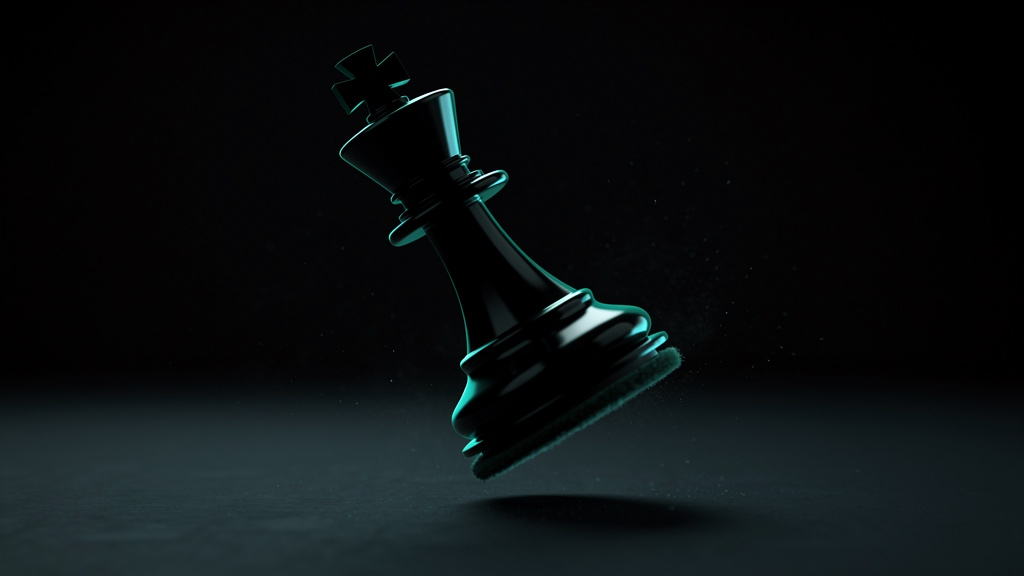
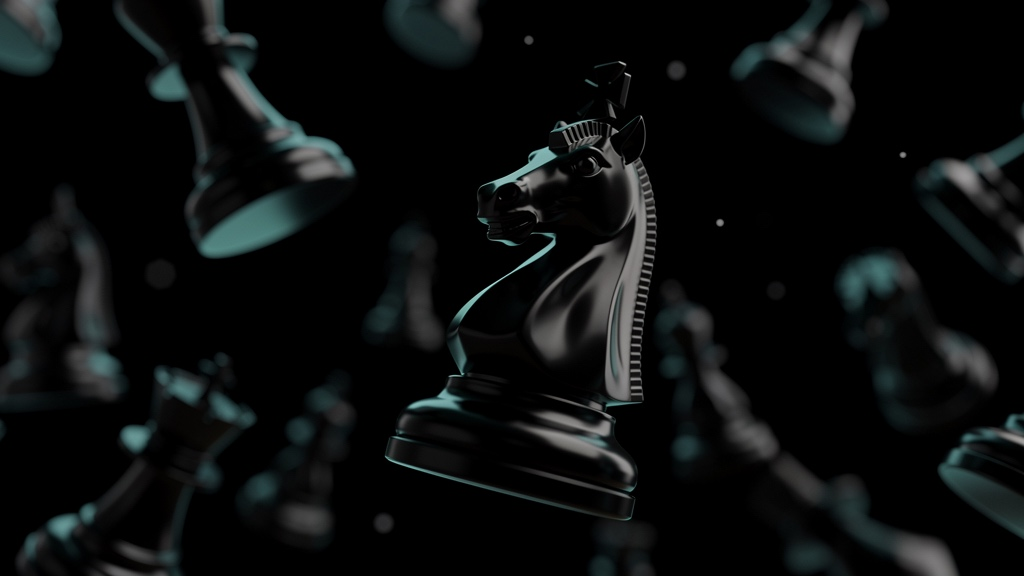
Full platform retheme: Code Black + Plasma Orange

diff --git a/src/app/profile/page.tsx b/src/app/profile/page.tsx
@@ -279,18 +279,18 @@ export default function ProfilePage() {
       <main className="mx-auto max-w-[1200px] px-4 pt-6 pb-24 sm:px-6 lg:px-8 md:pt-8 md:pb-12">
         {/* Section 1: Profile header */}
         <section
-          className="animate-fade-in overflow-hidden rounded-card border border-white/10 bg-gradient-to-br from-[#0D0F14] via-[#151821] to-[#0D0F14]"
+          className="animate-fade-in overflow-hidden rounded-card border border-white/10 bg-gradient-to-br from-[#0E0E12] via-[#1A1A22] to-[#0E0E12]"
           style={{
             backgroundImage: isPractice
-              ? "linear-gradient(135deg, rgba(139,92,246,0.05) 0%, transparent 50%, rgba(124,92,252,0.05) 100%)"
-              : "linear-gradient(135deg, rgba(0,229,199,0.04) 0%, transparent 50%, rgba(124,92,252,0.04) 100%)",
+              ? "linear-gradient(135deg, rgba(168,85,247,0.07) 0%, transparent 50%, rgba(192,132,252,0.06) 100%)"
+              : "linear-gradient(135deg, rgba(255,94,0,0.06) 0%, transparent 50%, rgba(255,122,46,0.05) 100%)",
           }}
         >
           <div className="flex flex-col gap-6 p-6 sm:flex-row sm:items-center sm:justify-between sm:p-8">
             <div className="flex flex-col gap-4 sm:flex-row sm:items-center sm:gap-6">
               <div
                 className={`h-20 w-20 shrink-0 rounded-full bg-gradient-to-br p-0.5 ring-2 ring-white/10 ${
-                  isPractice ? "from-purple-500/50 to-fuchsia-500/40" : "from-teal/50 to-purple/50"
+                  isPractice ? "from-purple-500/50 to-fuchsia-500/40" : "from-teal/60 to-[rgba(255,122,46,0.8)]"
                 }`}
               >
                 <div className="flex h-full w-full items-center justify-center rounded-full bg-charcoal">
@@ -563,8 +563,8 @@ export default function ProfilePage() {
             <svg viewBox={`0 0 ${chartW} ${chartH}`} className="w-full max-w-full" preserveAspectRatio="xMidYMid meet">
               <defs>
                 <linearGradient id="ratingGradient" x1="0%" y1="0%" x2="0%" y2="100%">
-                  <stop offset="0%" stopColor="#00E5C7" stopOpacity="0.4" />
-                  <stop offset="100%" stopColor="#00E5C7" stopOpacity="0" />
+                  <stop offset="0%" stopColor="#FF5E00" stopOpacity="0.4" />
+                  <stop offset="100%" stopColor="#FF5E00" stopOpacity="0" />
                 </linearGradient>
               </defs>
               {/* Grid */}
@@ -606,7 +606,7 @@ export default function ProfilePage() {
                     }
                     fill="url(#ratingGradient)"
                   />
-                  <polyline
+                    <polyline
                     points={ratingHistoryPoints
                       .map((p, i) => {
                         const x = pad.left + (p.x / Math.max(1, ratingHistoryPoints.length - 1)) * innerW;
@@ -615,7 +615,7 @@ export default function ProfilePage() {
                       })
                       .join(" ")}
                     fill="none"
-                    stroke="#00E5C7"
+                    stroke="#FF5E00"
                     strokeWidth="2"
                     strokeLinecap="round"
                     strokeLinejoin="round"
@@ -628,7 +628,7 @@ export default function ProfilePage() {
                   y1={pad.top + innerH / 2}
                   x2={chartW - pad.right}
                   y2={pad.top + innerH / 2}
-                  stroke="#00E5C7"
+                  stroke="#FF5E00"
                   strokeWidth="2"
                   strokeDasharray="4 4"
                 />

diff --git a/src/components/ModeToggleBar.tsx b/src/components/ModeToggleBar.tsx
@@ -11,12 +11,12 @@ export default function ModeToggleBarContent({ className = "" }: ModeToggleBarCo
 
   return (
     <div
-      className={`mode-toggle-bar flex flex-col items-center justify-center gap-1 border-b border-white/5 bg-[#0E1018] py-2 md:h-10 md:flex-row md:gap-3 md:py-0 ${className}`}
+      className={`mode-toggle-bar flex flex-col items-center justify-center gap-1 border-b border-white/5 bg-charcoal py-2 md:h-10 md:flex-row md:gap-3 md:py-0 ${className}`}
       style={{ minHeight: 36 }}
       role="tablist"
       aria-label="Play mode"
     >
-      <div className="mode-toggle flex items-center gap-1 rounded-[20px] bg-[#151821] p-[3px]">
+      <div className="mode-toggle flex items-center gap-1 rounded-[20px] bg-card p-[3px]">
         <button
           type="button"
           role="tab"
@@ -24,8 +24,8 @@ export default function ModeToggleBarContent({ className = "" }: ModeToggleBarCo
           onClick={() => setMode("real")}
           className={`relative rounded-[18px] px-4 py-2 text-sm font-bold transition-all duration-300 md:px-5 md:py-2 ${
             mode === "real"
-              ? "active-real bg-gradient-to-r from-[#00E5C7] to-emerald-500 text-white shadow-[0_0_20px_rgba(0,229,199,0.3)]"
-              : "bg-transparent text-body-gray hover:text-white/80"
+              ? "active-real bg-gradient-to-r from-[#FF5E00] to-[#FF7A2E] text-white shadow-[0_0_20px_rgba(255,94,0,0.3)]"
+              : "bg-transparent text-body-gray hover:text-primary-text/80"
           }`}
         >
           <span className="relative z-10 inline-flex items-center gap-1.5">
@@ -39,8 +39,8 @@ export default function ModeToggleBarContent({ className = "" }: ModeToggleBarCo
           onClick={() => setMode("practice")}
           className={`relative rounded-[18px] px-4 py-2 text-sm font-bold transition-all duration-300 md:px-5 md:py-2 ${
             mode === "practice"
-              ? "active-practice bg-gradient-to-r from-[#7C5CFC] to-purple-600 text-white shadow-[0_0_20px_rgba(124,92,252,0.3)]"
-              : "bg-transparent text-body-gray hover:text-white/80"
+              ? "active-practice bg-gradient-to-r from-[#A855F7] to-[#C084FC] text-white shadow-[0_0_20px_rgba(168,85,247,0.3)]"
+              : "bg-transparent text-body-gray hover:text-primary-text/80"
           }`}
         >
           <span className="relative z-10 inline-flex items-center gap-1.5">

diff --git a/src/components/games/ReactionDuel.tsx b/src/components/games/ReactionDuel.tsx
@@ -22,10 +22,10 @@ const ROUND_START_DELAY_MIN = 2000;
 const ROUND_START_DELAY_MAX = 5000;
 
 function reactionLabel(ms: number): { text: string; color: string } {
-  if (ms < 200) return { text: "INSANE! 🔥", color: "#EAB308" };
-  if (ms < 300) return { text: "Great!", color: "#00E5C7" };
+  if (ms < 200) return { text: "INSANE! 🔥", color: "#FACC15" };
+  if (ms < 300) return { text: "Great!", color: "#FF5E00" };
   if (ms < 400) return { text: "Good", color: "#22C55E" };
-  if (ms < 500) return { text: "OK", color: "#EAB308" };
+  if (ms < 500) return { text: "OK", color: "#FACC15" };
   return { text: "Slow", color: "#9ca3af" };
 }
 
@@ -66,7 +66,7 @@ export default function ReactionDuel({
   const [roundHistory, setRoundHistory] = useState<{ p1: Reaction; p2: Reaction; winner: "player1" | "player2" | "draw" }[]>([]);
   const [targetPos, setTargetPos] = useState<{ x: number; y: number } | null>(null);
   const [targetDiameter, setTargetDiameter] = useState(TARGET_BASE);
-  const [targetColor, setTargetColor] = useState("#00E5C7");
+  const [targetColor, setTargetColor] = useState("#FF5E00");
   const [p1Reaction, setP1Reaction] = useState<Reaction | null>(null);
   const [p2Reaction, setP2Reaction] = useState<Reaction | null>(null);
   const [opponentReactionForRound, setOpponentReactionForRound] = useState<{ round: number; reactionTime: number } | null>(null);
@@ -456,7 +456,7 @@ export default function ReactionDuel({
           ref={gameAreaRef}
           className="flex-1 min-h-[300px] mx-4 mb-4 rounded-2xl border border-white/10 flex items-center justify-center relative overflow-hidden select-none"
           style={{
-            backgroundColor: phase === "target" ? "#151821" : "#0D0F14",
+            backgroundColor: phase === "target" ? "#1A1A22" : "#0E0E12",
             minWidth: 0,
             minHeight: 400,
             touchAction: "manipulation",
@@ -476,7 +476,7 @@ export default function ReactionDuel({
                 <span
                   className="text-6xl font-black animate-fade-in"
                   style={{
-                    color: countdownN === 3 ? "#fff" : countdownN === 2 ? "#EAB308" : "#00E5C7",
+                    color: countdownN === 3 ? "#fff" : countdownN === 2 ? "#FACC15" : "#FF5E00",
                   }}
                 >
                   {countdownN}

diff --git a/tailwind.config.ts b/tailwind.config.ts
@@ -9,11 +9,20 @@ const config: Config = {
   theme: {
     extend: {
       colors: {
-        charcoal: "#0D0F14",
-        card: "#151821",
-        teal: "#00E5C7",
-        purple: "#7C5CFC",
-        "body-gray": "#A1A1AA",
+        // Core app surfaces
+        charcoal: "#0E0E12", // primary background
+        card: "#1A1A22", // surface/card background
+        border: "#2A2A38",
+        "body-gray": "#7A7A8E",
+        "body": "#C8C8D4",
+        "primary-text": "#F0F0F4",
+
+        // Accents
+        teal: "#FF5E00", // real-money accent (legacy name kept for class compatibility)
+        purple: "#A855F7", // practice accent (legacy name kept for class compatibility)
+        "teal-hover": "#FF7A2E",
+        "purple-hover": "#C084FC",
+
         // Admin dashboard (distinct from player site)
         "admin-bg": "#0A0B0F",
         "admin-card": "#12131A",
@@ -31,15 +40,17 @@ const config: Config = {
         card: "12px",
       },
       boxShadow: {
-        "teal-glow": "0 0 20px rgba(0, 229, 199, 0.3)",
-        "teal-glow-lg": "0 0 30px rgba(0, 229, 199, 0.4)",
-        "purple-glow": "0 0 20px rgba(124, 92, 252, 0.3)",
+        // Real-money orange glow
+        "teal-glow": "0 0 20px rgba(255, 94, 0, 0.3)",
+        "teal-glow-lg": "0 0 30px rgba(255, 94, 0, 0.4)",
+        // Practice purple glow
+        "purple-glow": "0 0 20px rgba(168, 85, 247, 0.3)",
       },
       backgroundImage: {
         "gradient-teal-purple":
-          "linear-gradient(135deg, #00E5C7 0%, #7C5CFC 100%)",
+          "linear-gradient(135deg, #FF5E00 0%, #FF7A2E 100%)",
         "mesh-gradient":
-          "radial-gradient(ellipse 80% 50% at 50% -20%, rgba(0, 229, 199, 0.08), transparent), radial-gradient(ellipse 60% 40% at 100% 0%, rgba(124, 92, 252, 0.06), transparent)",
+          "radial-gradient(ellipse 80% 50% at 50% -20%, rgba(255, 94, 0, 0.06), transparent), radial-gradient(ellipse 60% 40% at 100% 0%, rgba(168, 85, 247, 0.05), transparent)",
       },
       animation: {
         "fade-in": "fadeIn 0.6s ease-out forwards",

diff --git a/src/components/games/ConnectFour.tsx b/src/components/games/ConnectFour.tsx
@@ -16,9 +16,9 @@ import {
 } from "@/lib/games/connect4-logic";
 import { getConnect4BotMove, getConnect4BotDelayMs, type BotDifficulty } from "@/lib/games/bot-engine";
 
-const BOARD_BG = "#1565C0";
-const CELL_BORDER = "#0D47A1";
-const HOLE_BG = "#0D0F14";
+const BOARD_BG = "#1A1A22";
+const CELL_BORDER = "#2A2A38";
+const HOLE_BG = "#0E0E12";
 const RED_CENTER = "#FF4444";
 const RED_EDGE = "#CC0000";
 const YELLOW_CENTER = "#FFDD44";
@@ -390,9 +390,9 @@ export default function ConnectFour({
                                 ? `radial-gradient(circle at 32% 28%, ${RED_CENTER}, 70%, ${RED_EDGE})`
                                 : `radial-gradient(circle at 32% 28%, ${YELLOW_CENTER}, 70%, ${YELLOW_EDGE})`,
                             boxShadow: isWinCell
-                              ? "0 0 16px rgba(0, 229, 199, 0.8), inset -2px -2px 4px rgba(0,0,0,0.3)"
+                              ? "0 0 16px rgba(255, 94, 0, 0.8), inset -2px -2px 4px rgba(0,0,0,0.3)"
                               : "inset -3px -3px 6px rgba(0,0,0,0.35), inset 3px 3px 6px rgba(255,255,255,0.25)",
-                            border: isWinCell ? "3px solid rgba(0, 229, 199, 0.9)" : undefined,
+                            border: isWinCell ? "3px solid rgba(255, 94, 0, 0.9)" : undefined,
                             ["--drop-from" as string]: `${dropFromY}px`,
                             animation: isDroppingHere ? "connect4Drop 500ms cubic-bezier(0.34, 1.56, 0.64, 1) forwards" : "none",
                           }}
@@ -415,7 +415,7 @@ export default function ConnectFour({
                   y1={3 + winResult.cells[0][0] * (cellSize + 3) + cellSize / 2}
                   x2={3 + winResult.cells[3][1] * (cellSize + 3) + cellSize / 2}
                   y2={3 + winResult.cells[3][0] * (cellSize + 3) + cellSize / 2}
-                  stroke="rgba(0, 229, 199, 0.95)"
+                  stroke="rgba(255, 94, 0, 0.95)"
                   strokeWidth="4"
                   strokeLinecap="round"
                 />

diff --git a/src/components/games/LastTouch.tsx b/src/components/games/LastTouch.tsx
@@ -346,14 +346,14 @@ export default function LastTouch({
     return (
       <div className="flex flex-col gap-6 pb-8">
         <div className="text-center">
-          <h1 className="bg-gradient-to-r from-teal via-[#00E5C7] to-purple-500 bg-clip-text text-4xl font-black tracking-tight text-transparent sm:text-5xl md:text-6xl">
+          <h1 className="bg-gradient-to-r from-[#FF5E00] via-[#FF7A2E] to-[#FF5E00] bg-clip-text text-4xl font-black tracking-tight text-transparent sm:text-5xl md:text-6xl">
             LAST TOUCH
           </h1>
           <p className="mt-2 text-body-gray">Hold your ground. Win it all.</p>
           <div className="mt-4 inline-block animate-pulse text-4xl">👆</div>
         </div>
 
-        <div className="mx-auto w-full max-w-md rounded-2xl border-2 border-teal/50 bg-card/90 p-6 shadow-[0_0_40px_rgba(0,229,199,0.15)]">
+        <div className="mx-auto w-full max-w-md rounded-2xl border-2 border-teal/50 bg-card/90 p-6 shadow-[0_0_40px_rgba(255,94,0,0.15)]">
           <p className="text-center text-sm text-body-gray">Current Prize Pool</p>
           <p className="mt-2 text-center text-4xl font-bold text-white tabular-nums">
             $<AnimatedNumber value={state.prizePool} />
@@ -394,7 +394,7 @@ export default function LastTouch({
             <button
               type="button"
               onClick={handleJoin}
-              className="w-full rounded-xl bg-teal py-4 text-lg font-bold text-charcoal shadow-[0_0_30px_rgba(0,229,199,0.4)] transition hover:opacity-95"
+              className="w-full rounded-xl bg-teal py-4 text-lg font-bold text-charcoal shadow-[0_0_30px_rgba(255,94,0,0.4)] transition hover:opacity-95"
             >
               JOIN NOW — ${entryFee.toFixed(2)}
             </button>

diff --git a/src/app/match/[id]/page.tsx b/src/app/match/[id]/page.tsx
@@ -795,7 +795,7 @@ function MatchPageContent() {
               {match.isPractice && (
                 <Link
                   href="/play"
-                  className="rounded-lg bg-gradient-to-r from-[#7C5CFC] to-purple-600 px-6 py-3 font-semibold text-white hover:shadow-[0_0_24px_rgba(124,92,252,0.4)]"
+                  className="rounded-lg bg-gradient-to-r from-purple to-[rgba(192,132,252,1)] px-6 py-3 font-semibold text-white hover:shadow-[0_0_24px_rgba(168,85,247,0.4)]"
                 >
                   Play for Real Money
                 </Link>
@@ -882,7 +882,7 @@ function MatchPageContent() {
               {match.isPractice && (
                 <Link
                   href="/play"
-                  className="rounded-lg bg-gradient-to-r from-[#7C5CFC] to-purple-600 px-6 py-3 font-semibold text-white hover:shadow-[0_0_24px_rgba(124,92,252,0.4)]"
+                  className="rounded-lg bg-gradient-to-r from-purple to-[rgba(192,132,252,1)] px-6 py-3 font-semibold text-white hover:shadow-[0_0_24px_rgba(168,85,247,0.4)]"
                 >
                   Play for Real Money
                 </Link>

diff --git a/src/app/play/spelling-bee/page.tsx b/src/app/play/spelling-bee/page.tsx
@@ -439,7 +439,7 @@ export default function PlaySpellingBeePage() {
             disabled={!isPractice && (insufficientBalance || stakeAmount < 1)}
             className={`pressable h-14 w-full rounded-lg text-lg font-bold transition-all disabled:cursor-not-allowed disabled:opacity-50 ${
               isPractice
-                ? "bg-gradient-to-r from-[#7C5CFC] to-purple-600 text-white hover:shadow-[0_0_24px_rgba(124,92,252,0.4)]"
+                ? "bg-gradient-to-r from-purple to-[rgba(192,132,252,1)] text-white hover:shadow-[0_0_24px_rgba(168,85,247,0.4)]"
                 : "bg-amber-500 text-charcoal hover:shadow-[0_0_24px_rgba(245,158,11,0.4)]"
             }`}
           >

diff --git a/src/app/play/[game]/page.tsx b/src/app/play/[game]/page.tsx
@@ -461,7 +461,7 @@ export default function PlayGamePage() {
             disabled={!effectivePractice && (insufficientBalance || stakeAmount < 1)}
             className={`pressable h-14 w-full rounded-lg text-lg font-bold transition-all disabled:cursor-not-allowed disabled:opacity-50 ${
               effectivePractice
-                ? "bg-gradient-to-r from-[#7C5CFC] to-purple-600 text-white hover:shadow-[0_0_24px_rgba(124,92,252,0.4)]"
+                ? "bg-gradient-to-r from-purple to-[rgba(192,132,252,1)] text-white hover:shadow-[0_0_24px_rgba(168,85,247,0.4)]"
                 : "bg-teal text-charcoal hover:shadow-teal-glow"
             }`}
           >

diff --git a/src/app/globals.css b/src/app/globals.css
@@ -3,17 +3,17 @@
 @tailwind utilities;
 
 :root {
-  --accent: #00E5C7;
-  --accent-light: rgba(0, 229, 199, 0.15);
-  --accent-glow: rgba(0, 229, 199, 0.3);
-  --accent-dark: #00B4A0;
+  --accent: #ff5e00;
+  --accent-light: rgba(255, 94, 0, 0.15);
+  --accent-glow: rgba(255, 94, 0, 0.3);
+  --accent-dark: #ff7a2e;
 }
 
 .practice-mode {
-  --accent: #8B5CF6;
-  --accent-light: rgba(139, 92, 246, 0.15);
-  --accent-glow: rgba(139, 92, 246, 0.3);
-  --accent-dark: #7C3AED;
+  --accent: #a855f7;
+  --accent-light: rgba(168, 85, 247, 0.15);
+  --accent-glow: rgba(168, 85, 247, 0.3);
+  --accent-dark: #c084fc;
 }
 
 html {

diff --git a/src/app/settings/page.tsx b/src/app/settings/page.tsx
@@ -129,7 +129,7 @@ export default function SettingsPage() {
                   </svg>
                 </span>
               )}
-              <div className="mb-4 h-16 w-full overflow-hidden rounded-lg bg-[#0D0F14] p-2">
+              <div className="mb-4 h-16 w-full overflow-hidden rounded-lg bg-charcoal p-2">
                 <div className="flex gap-1">
                   <div className="h-2 flex-1 rounded bg-white/10" />
                   <div className={`h-2 w-8 rounded ${isPractice ? "bg-purple-500/60" : "bg-teal/60"}`} />

diff --git a/src/app/leaderboard/page.tsx b/src/app/leaderboard/page.tsx
@@ -289,7 +289,7 @@ export default function LeaderboardPage() {
                 {visiblePlayers.map((player, i) => {
                   const rank = i + 4;
                   const rowBaseClasses = `border-b border-white/5 transition-colors ${
-                    rank % 2 === 0 ? "bg-[#151821]" : "bg-[#1A1D27]"
+                    rank % 2 === 0 ? "bg-card" : "bg-[#1A1A22]"
                   } ${player.isCurrentUser ? (isPractice ? "bg-purple-500/10" : "bg-teal/10") : ""}`;
 
                   if (isPractice) {
